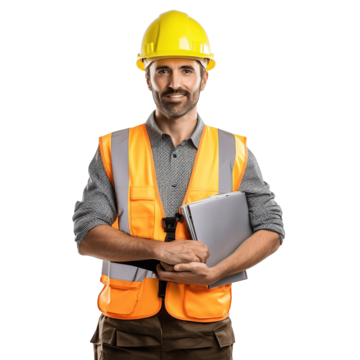
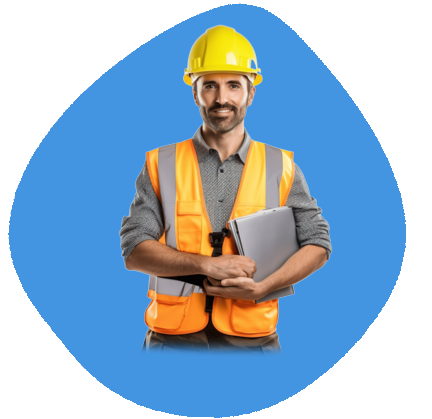
modifying styles

diff --git a/src/index.css b/src/index.css
@@ -7,9 +7,10 @@
 header {
   display: flex;
   justify-content: center;
+  height: 65px;
   color: white;
   background-color: black;
-  padding: 15px 0px;
+  align-items: center;
 }
 
 header img {
@@ -28,43 +29,45 @@ main {
 .homeImgBanner {
   position: relative;
   width: 100%;
-  height: 92vh;
+  height: calc(100vh - 65px);
+  background-size: cover;
+  background-position: center;
   display: flex;
+  z-index: 1;
   justify-content: center;
   align-items: center;
 }
 
-.homeImgBanner img {
-  width: 100%;
-  height: 100%;
-  object-fit: cover;
-}
-
-.overlay {
-  position: absolute;
-  top: 0px;
-  width: 100%;
-  height: 100%;
-  background-color: rgba(0, 0, 0, 0.767);
-  z-index: 2;
+.contentImg img {
+  display: none;
 }
 
 .content {
-  position: absolute;
   z-index: 2;
-  color: white;
   display: flex;
   flex-direction: column;
   justify-content: center;
   gap: 30px;
   align-items: center;
   text-align: center;
-  width: 90%;
+  width: 100%;
+  margin: 0px 5%;
+}
+
+.contentText {
+  display: flex;
+  flex-direction: column;
+  align-items: center;
+  gap: 30px;
+}
+
+.bannerStrongText {
+  color: #4495E1;
 }
 
 .content button {
-  width: 80%;
-  height: 40px;
+  width: 100%;
+  height: 50px;
   border: 0px;
   border-radius: 4px;
   background-color: #4495E1;
@@ -139,7 +142,7 @@ section {
 
 /* STEPS */
 
-.descriptionStep{
+.descriptionStep {
   font-weight: 100;
 }
 
@@ -149,7 +152,7 @@ section {
   gap: 20px;
 }
 
-.stepItem{
+.stepItem {
   display: flex;
   align-items: flex-start;
 }
@@ -158,33 +161,34 @@ section {
   font-size: 2em;
   font-weight: bold;
   color: #333;
-  margin-right: 20px; /* Espacio entre el número y el contenido */
+  margin-right: 20px;
+  /* Espacio entre el número y el contenido */
 }
 
-.contentStep{
+.contentStep {
   width: 100%;
 }
 
 /* FORM */
 
-.formContainer{
+.formContainer {
   display: flex;
   flex-direction: column;
   gap: 20px;
 }
 
-.formInput{
+.formInput {
   height: 45px;
   border-radius: 10px;
   border: 0px;
   font-size: 1.1em;
 }
 
-.formInput::placeholder{
+.formInput::placeholder {
   padding: 10px;
 }
 
-.formButton{
+.formButton {
   height: 50px;
   border: 0px;
   border-radius: 5px;
@@ -198,7 +202,25 @@ section {
   }
 
   .content {
-    width: 80%;
+    flex-direction: row;
+    padding: 0px 8%;
+    text-align: left;
+  }
+
+  .contentText{
+    width: 60%;
+  }
+
+  .contentImg {
+    width: 40%;
+  }
+
+  .contentImg img {
+    width: 100%;
+  
+    display: block;
+    max-height: 467px;
+    object-fit: contain;
   }
 
   .aboutUsSection {
@@ -211,53 +233,61 @@ section {
 }
 
 @media (min-width: 1020px) {
-  section{
+  section {
     padding: 0px 8%
   }
 
-  .titleSection{
+  .titleSection {
     padding: 10px 8%;
   }
-  
+
   .serviceCard img {
     max-height: 280px;
   }
 
-  .serviceText{
+  .serviceText {
+    font-size: 1.4em;
+  }
+
+  .contentText h1{
+    font-size: 2.4em;
+  }
+
+  .contentText h3{
     font-size: 1.4em;
   }
 
   /* ABOUT US */
 
-  .aboutUsContainer h2{
+  .aboutUsContainer h2 {
     font-size: 1.6em;
   }
 
-  .aboutUsContainer h3{
+  .aboutUsContainer h3 {
     font-size: 1.3em;
   }
 
   /* STEPS */
 
-  .stepItem{
+  .stepItem {
     width: 48%;
   }
 
-  .stepsSection{
+  .stepsSection {
     flex-direction: row;
     flex-wrap: wrap;
     justify-content: space-between;
   }
 
-  .titleStep{
+  .titleStep {
     font-size: 1.6em;
   }
 
-  .numberStep{
+  .numberStep {
     font-size: 2.5em;
   }
 
-  .descriptionStep{
+  .descriptionStep {
     font-size: 1.3em;
   }
 }

diff --git a/src/App.jsx b/src/App.jsx
@@ -3,6 +3,7 @@ import fbsLogo from "./assets/Group-17-FBS-1.svg"
 import backgroundBanner from "./assets/imgBackground.png"
 import serviceCleaning from "./assets/ImgCleaning.png"
 import serviceDemolition from "./assets/ImgDemolition.png"
+import workerBanner from "./assets/pngtree-construction-worker-engineer-png-image_11500172.png"
 import './App.css'
 
 function App() {
@@ -15,13 +16,16 @@ function App() {
       </header>
       <main>
         <div className='homeImgBanner'>
-          <img src={backgroundBanner} alt="" />
-          <div className='overlay'></div>
           <div className='content'>
-            <h1>Are you employee or constructor?</h1>
-            <h3>Get the best market price with our specialized cleaning crew. We keep your construction site clean and safe during the build, and spotless after, ready for sale.
-            </h3>
-            <button>Schedule a meet</button>
+            <div className='contentText'>
+              <h1>Transform Your Space: <strong className='bannerStrongText'>Professional Construction Cleaning</strong> in Florida</h1>
+              <h3>Is your project complete, but the space still needs a final touch? Our expert construction cleaning team in Florida is here to turn the chaos into a spotless and safe place. Schedule a meeting to learn how we can help deliver clean, ready-to-use spaces.
+              </h3>
+              <button>Schedule a meet</button>
+            </div>
+            <div className='contentImg'>
+              <img src={workerBanner} alt="" />
+            </div>
           </div>
         </div>
         <h1 className='titleSection'>About us</h1>
@@ -86,14 +90,14 @@ function App() {
         </section>
         <h1 className='titleSection'>Get In Touch</h1>
         <section className='sectionContact'>
-        <form className='formContainer' action="">
-          <input className='formInput' placeholder='Full Name' type="text" />
-          <input className='formInput' placeholder='Email' type="text" />
-          <input className='formInput' placeholder='Phone Number' type="text" />
-          <input className='formInput' placeholder='Company' type="text" />
-          <input className='formInput' placeholder='Location' type="text" />
-          <button className='formButton'>Submit</button>
-        </form>
+          <form className='formContainer' action="">
+            <input className='formInput' placeholder='Full Name' type="text" />
+            <input className='formInput' placeholder='Email' type="text" />
+            <input className='formInput' placeholder='Phone Number' type="text" />
+            <input className='formInput' placeholder='Company' type="text" />
+            <input className='formInput' placeholder='Location' type="text" />
+            <button className='formButton'>Submit</button>
+          </form>
         </section>
       </main>
     </>
